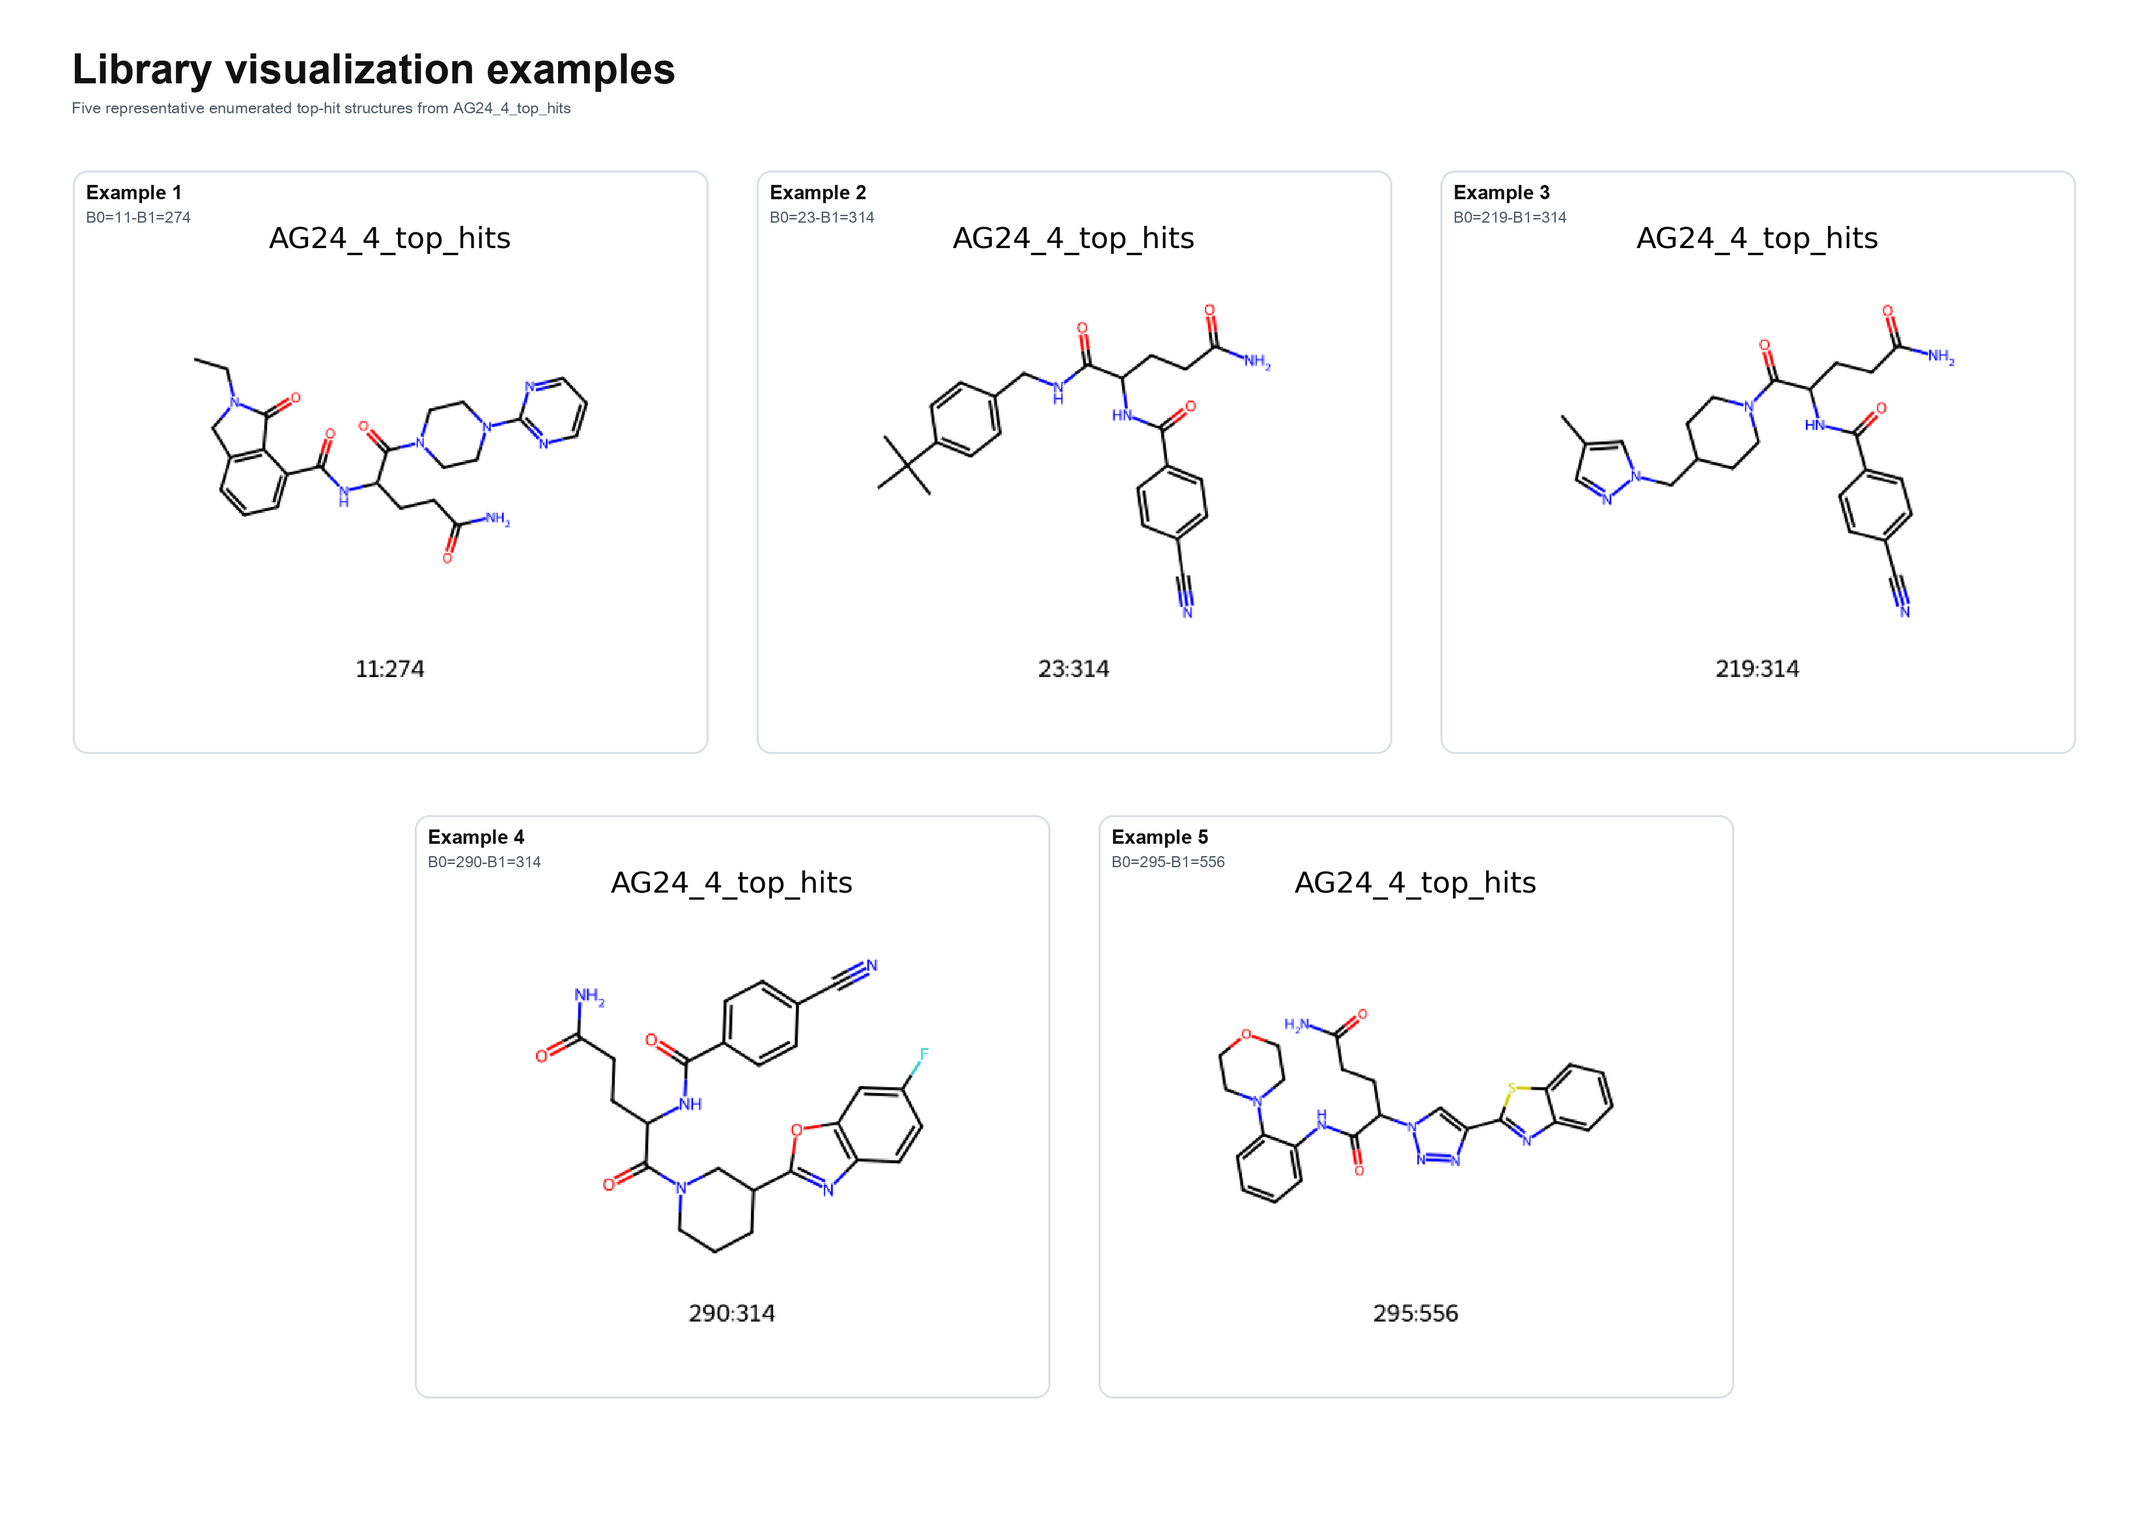
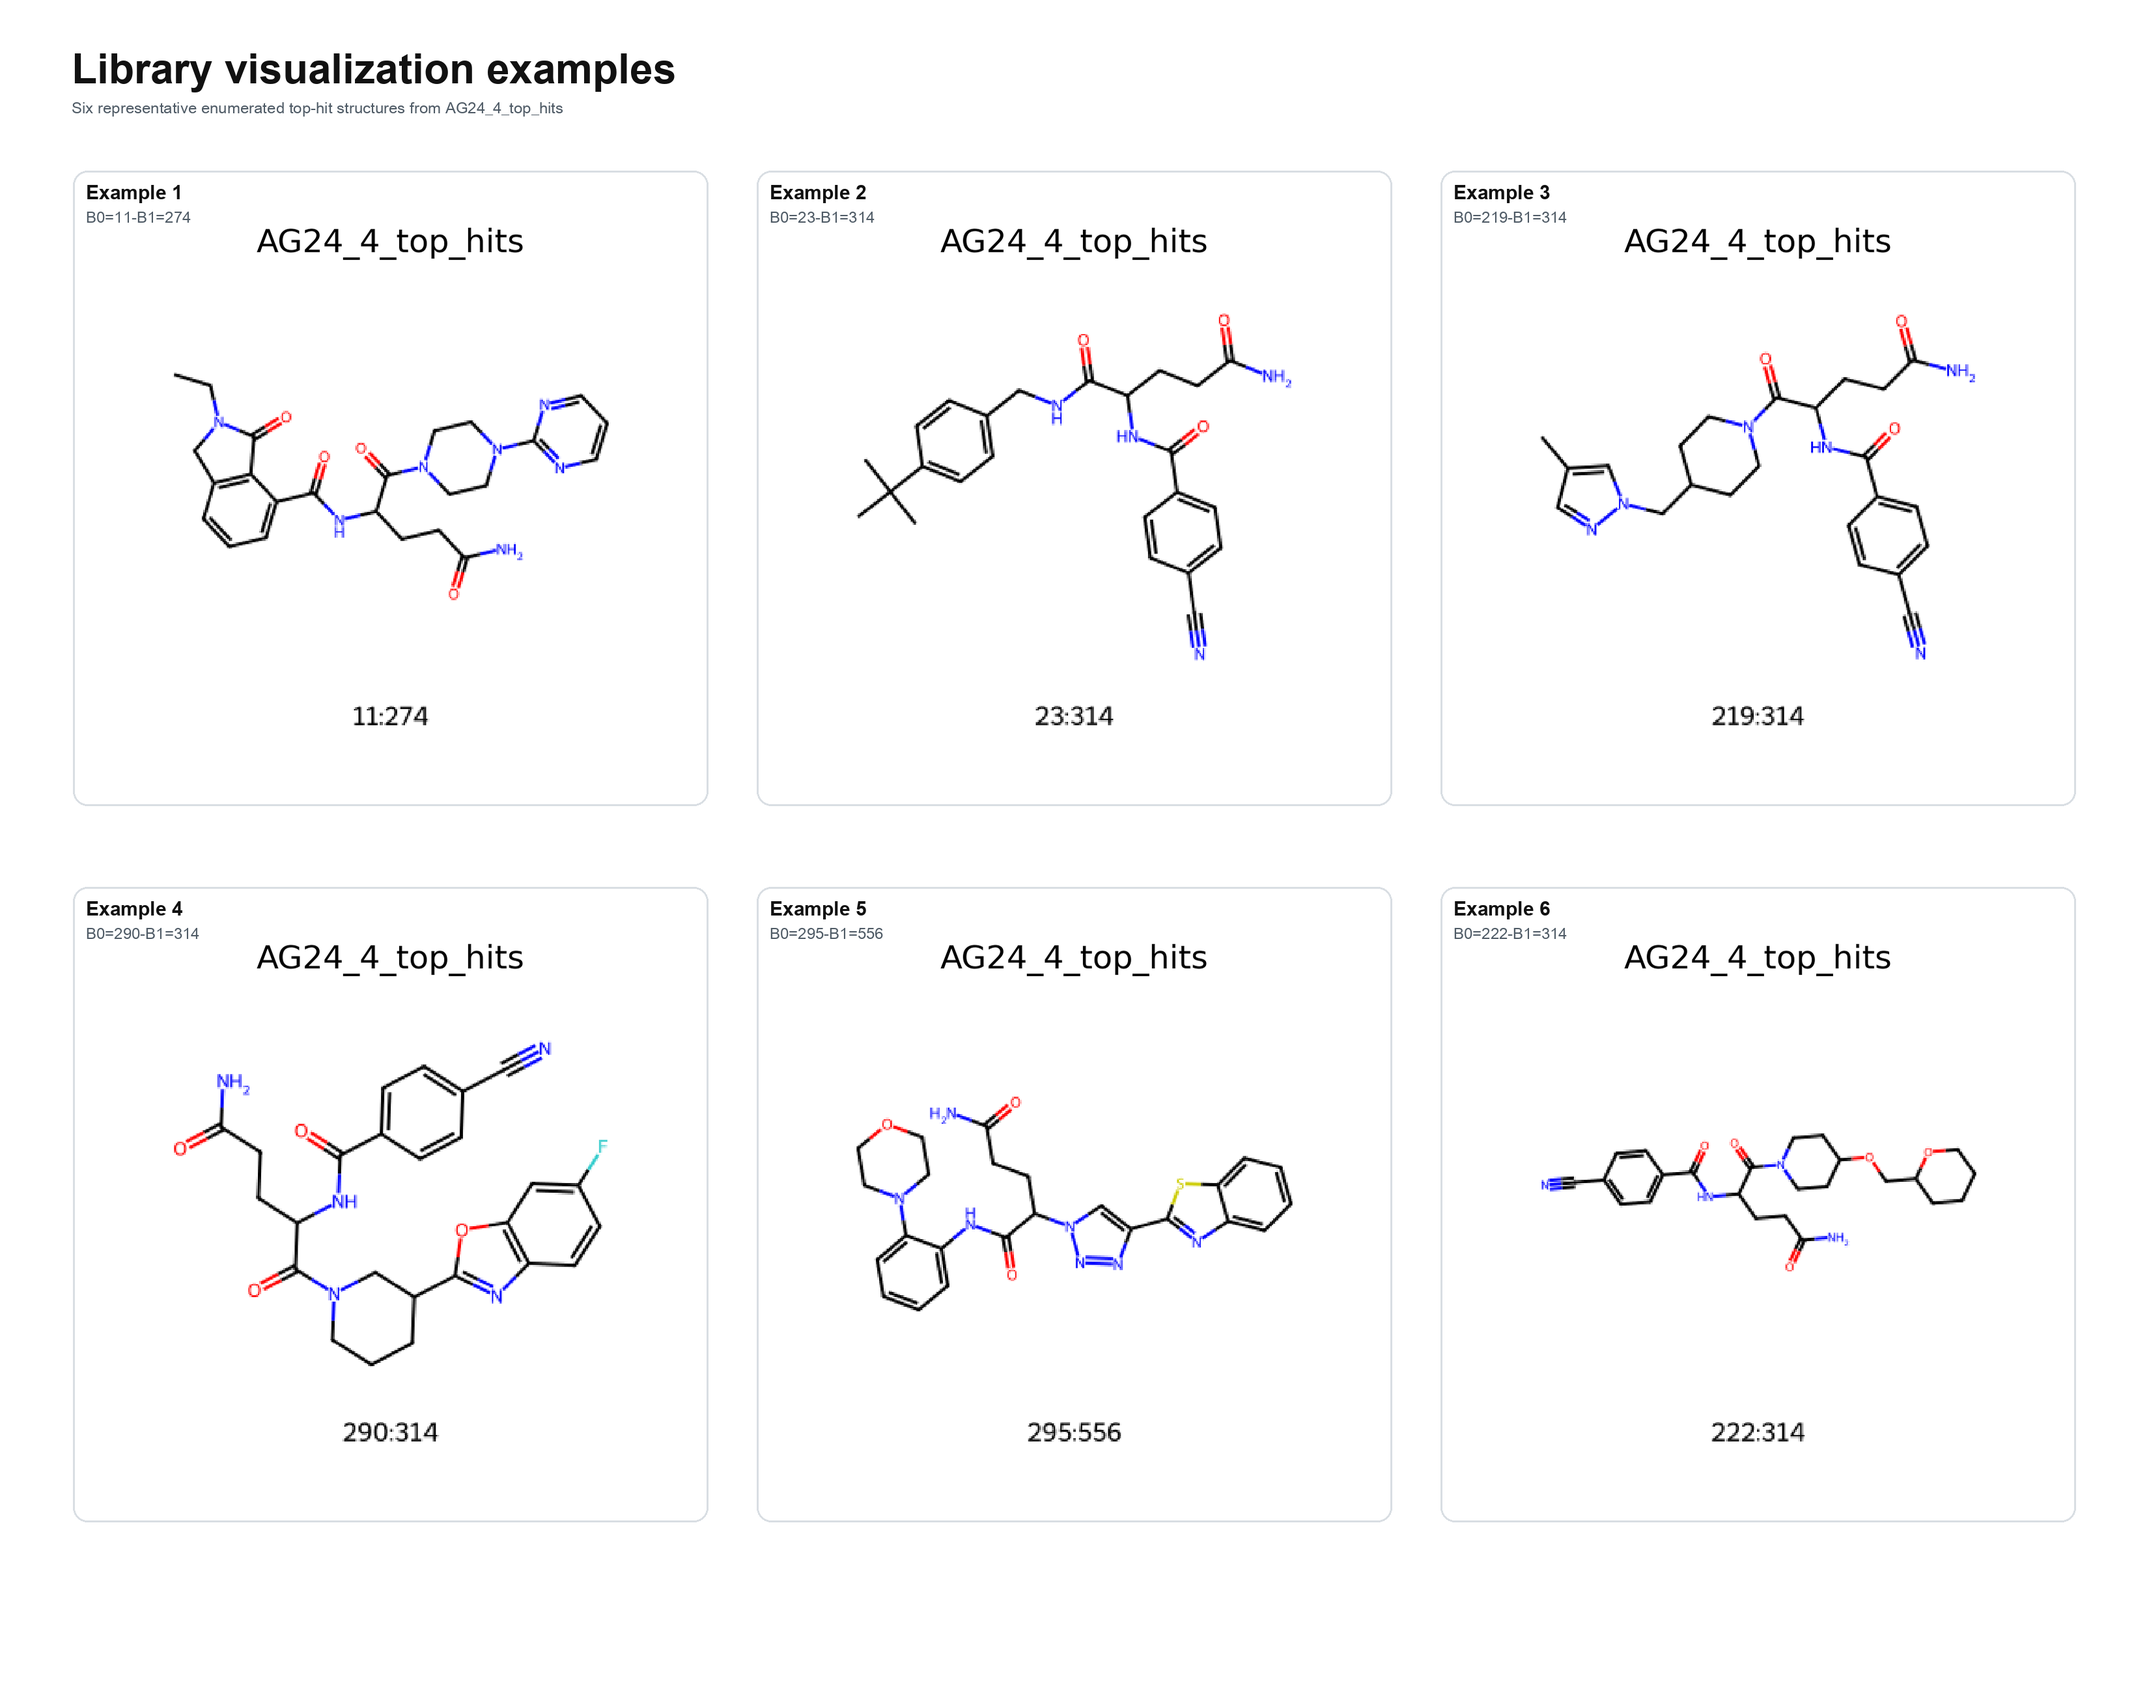
Add script for composite manuscript figures

diff --git a/paper/generate_composite_figures.py b/paper/generate_composite_figures.py
@@ -1,0 +1,260 @@
+from __future__ import annotations
+
+import argparse
+from pathlib import Path
+
+from PIL import Image, ImageDraw, ImageFont, ImageOps
+
+
+BG = "white"
+INK = "#111111"
+MUTED = "#4f5b66"
+BORDER = "#d9dee3"
+SECTION_BG = "#fafbfd"
+
+
+def parse_args() -> argparse.Namespace:
+    script_dir = Path(__file__).resolve().parent
+    default_visualization_root = (
+        script_dir.parent
+        / "supporting_material"
+        / "experiments"
+        / "example-single-stranded"
+        / "campaign"
+        / "library"
+        / "visualization"
+    )
+    default_output_dir = script_dir / "figures"
+    parser = argparse.ArgumentParser(
+        description=(
+            "Generate the composite manuscript figures for the single-stranded "
+            "example workflow."
+        )
+    )
+    parser.add_argument(
+        "--visualization-root",
+        type=Path,
+        default=default_visualization_root,
+        help="Root directory containing the visualization PNG outputs.",
+    )
+    parser.add_argument(
+        "--output-dir",
+        type=Path,
+        default=default_output_dir,
+        help="Directory where the composite figures should be written.",
+    )
+    return parser.parse_args()
+
+
+def _get_font(size: int, bold: bool = False) -> ImageFont.FreeTypeFont | ImageFont.ImageFont:
+    candidates: list[str] = []
+    if bold:
+        candidates.extend(
+            [
+                "/System/Library/Fonts/Supplemental/Arial Bold.ttf",
+                "/System/Library/Fonts/Supplemental/Helvetica Bold.ttf",
+            ]
+        )
+    candidates.extend(
+        [
+            "/System/Library/Fonts/Supplemental/Arial Unicode.ttf",
+            "/System/Library/Fonts/Supplemental/Arial.ttf",
+            "/System/Library/Fonts/Supplemental/Helvetica.ttc",
+            "/System/Library/Fonts/SFNS.ttf",
+        ]
+    )
+    for candidate in candidates:
+        path = Path(candidate)
+        if not path.exists():
+            continue
+        try:
+            return ImageFont.truetype(str(path), size=size)
+        except OSError:
+            continue
+    return ImageFont.load_default()
+
+
+TITLE = _get_font(64, bold=True)
+SUB = _get_font(40, bold=True)
+LABEL = _get_font(30, bold=True)
+SMALL = _get_font(24)
+
+
+def contain(image: Image.Image, size: tuple[int, int]) -> Image.Image:
+    return ImageOps.contain(image.convert("RGB"), size, method=Image.Resampling.LANCZOS)
+
+
+def draw_header(
+    draw: ImageDraw.ImageDraw,
+    x: int,
+    y: int,
+    title: str,
+    subtitle: str,
+) -> None:
+    draw.text((x, y), title, font=TITLE, fill=INK)
+    draw.text((x, y + 78), subtitle, font=SMALL, fill=MUTED)
+
+
+def panel(
+    image_path: Path,
+    size: tuple[int, int],
+    *,
+    title: str | None = None,
+    subtitle: str | None = None,
+) -> Image.Image:
+    image = Image.open(image_path)
+    canvas = Image.new("RGB", size, BG)
+    draw = ImageDraw.Draw(canvas)
+    draw.rounded_rectangle(
+        (2, 2, size[0] - 3, size[1] - 3),
+        22,
+        outline=BORDER,
+        width=3,
+        fill=BG,
+    )
+    inner_w = size[0] - 40
+    inner_h = size[1] - 90
+    top_offset = 0
+    if title or subtitle:
+        inner_h = size[1] - 120
+        top_offset = 30
+    body = contain(image, (inner_w, inner_h))
+    x = (size[0] - body.width) // 2
+    y = top_offset + (inner_h - body.height) // 2 + (30 if title or subtitle else 20)
+    canvas.paste(body, (x, y))
+    if title:
+        draw.text((22, 18), title, font=LABEL, fill=INK)
+    if subtitle:
+        draw.text((22, 56), subtitle, font=SMALL, fill=MUTED)
+    return canvas
+
+
+def build_enumeration_composite(visualization_root: Path, output_path: Path) -> None:
+    reaction_graph = visualization_root / "reaction_graph.png"
+    reaction_abf1 = visualization_root / "reactions" / "ABF1.png"
+    reaction_sr = visualization_root / "reactions" / "SR.png"
+
+    b0_examples = [visualization_root / "building_blocks" / "B0" / f"{n}.png" for n in [0, 1, 10]]
+    b1_examples = [visualization_root / "building_blocks" / "B1" / f"{n}.png" for n in [0, 1, 10]]
+    compound_examples = [
+        visualization_root / "libraries" / "AG24_4_top_hits" / name
+        for name in [
+            "B0=11-B1=274.png",
+            "B0=23-B1=314.png",
+            "B0=219-B1=314.png",
+        ]
+    ]
+
+    width, height = 3600, 3000
+    figure = Image.new("RGB", (width, height), BG)
+    draw = ImageDraw.Draw(figure)
+    draw_header(
+        draw,
+        120,
+        70,
+        "Enumeration workflow outputs",
+        "Reaction graph, representative reactions, building blocks, and enumerated top-hit structures",
+    )
+
+    graph_panel = panel(
+        reaction_graph,
+        (2050, 1320),
+        title="Library reaction graph",
+        subtitle="Visualized from the example-single-stranded workflow",
+    )
+    figure.paste(graph_panel, (100, 220))
+
+    figure.paste(panel(reaction_abf1, (1250, 390), title="Reaction template ABF1"), (2230, 220))
+    figure.paste(panel(reaction_sr, (1250, 390), title="Reaction template SR"), (2230, 640))
+
+    compound_y = 1080
+    compound_w = 390
+    for i, compound_path in enumerate(compound_examples, start=1):
+        compound_panel = panel(
+            compound_path,
+            (compound_w, 520),
+            title=f"Top compound {i}",
+            subtitle=compound_path.stem,
+        )
+        figure.paste(compound_panel, (2230 + (i - 1) * (compound_w + 20), compound_y))
+
+    section_y = 1680
+    for x, title in [
+        (100, "Representative B0 building blocks"),
+        (1840, "Representative B1 building blocks"),
+    ]:
+        draw.rounded_rectangle(
+            (x, section_y, x + 1660, section_y + 1040),
+            28,
+            fill=SECTION_BG,
+            outline=BORDER,
+            width=3,
+        )
+        draw.text((x + 30, section_y + 24), title, font=SUB, fill=INK)
+
+    for i, building_block_path in enumerate(b0_examples):
+        block_panel = panel(building_block_path, (500, 860), title=f"B0 code {building_block_path.stem}")
+        figure.paste(block_panel, (140 + i * 520, 1820))
+
+    for i, building_block_path in enumerate(b1_examples):
+        block_panel = panel(building_block_path, (500, 860), title=f"B1 code {building_block_path.stem}")
+        figure.paste(block_panel, (1880 + i * 520, 1820))
+
+    figure.save(output_path, quality=95)
+
+
+def build_library_examples_composite(visualization_root: Path, output_path: Path) -> None:
+    library_examples = [
+        visualization_root / "libraries" / "AG24_4_top_hits" / name
+        for name in [
+            "B0=11-B1=274.png",
+            "B0=23-B1=314.png",
+            "B0=219-B1=314.png",
+            "B0=290-B1=314.png",
+            "B0=295-B1=556.png",
+            "B0=222-B1=314.png",
+        ]
+    ]
+
+    width, height = 3300, 2600
+    figure = Image.new("RGB", (width, height), BG)
+    draw = ImageDraw.Draw(figure)
+    draw_header(
+        draw,
+        110,
+        70,
+        "Library visualization examples",
+        "Six representative enumerated top-hit structures from AG24_4_top_hits",
+    )
+
+    positions = [
+        (110, 260),
+        (1160, 260),
+        (2210, 260),
+        (110, 1360),
+        (1160, 1360),
+        (2210, 1360),
+    ]
+    size = (980, 980)
+    for i, (image_path, (x, y)) in enumerate(zip(library_examples, positions), start=1):
+        example_panel = panel(image_path, size, title=f"Example {i}", subtitle=image_path.stem)
+        figure.paste(example_panel, (x, y))
+
+    figure.save(output_path, quality=95)
+
+
+def main() -> None:
+    args = parse_args()
+    visualization_root = args.visualization_root
+    output_dir = args.output_dir
+    output_dir.mkdir(parents=True, exist_ok=True)
+
+    build_enumeration_composite(visualization_root, output_dir / "image2.png")
+    build_library_examples_composite(visualization_root, output_dir / "image3.png")
+
+    print(f"Wrote {output_dir / 'image2.png'}")
+    print(f"Wrote {output_dir / 'image3.png'}")
+
+
+if __name__ == "__main__":
+    main()
